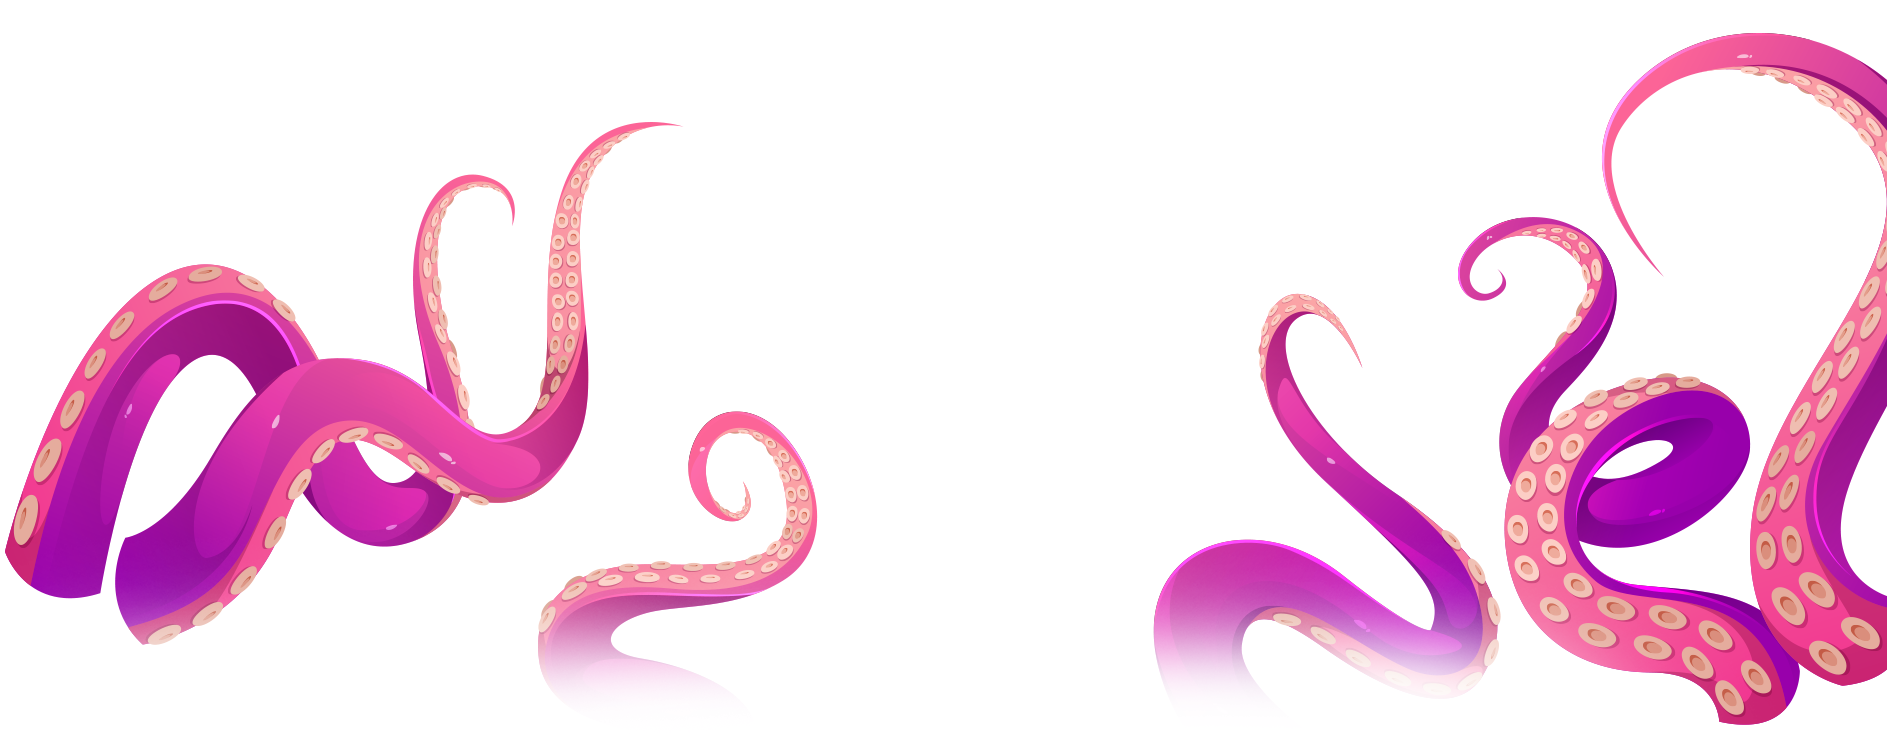
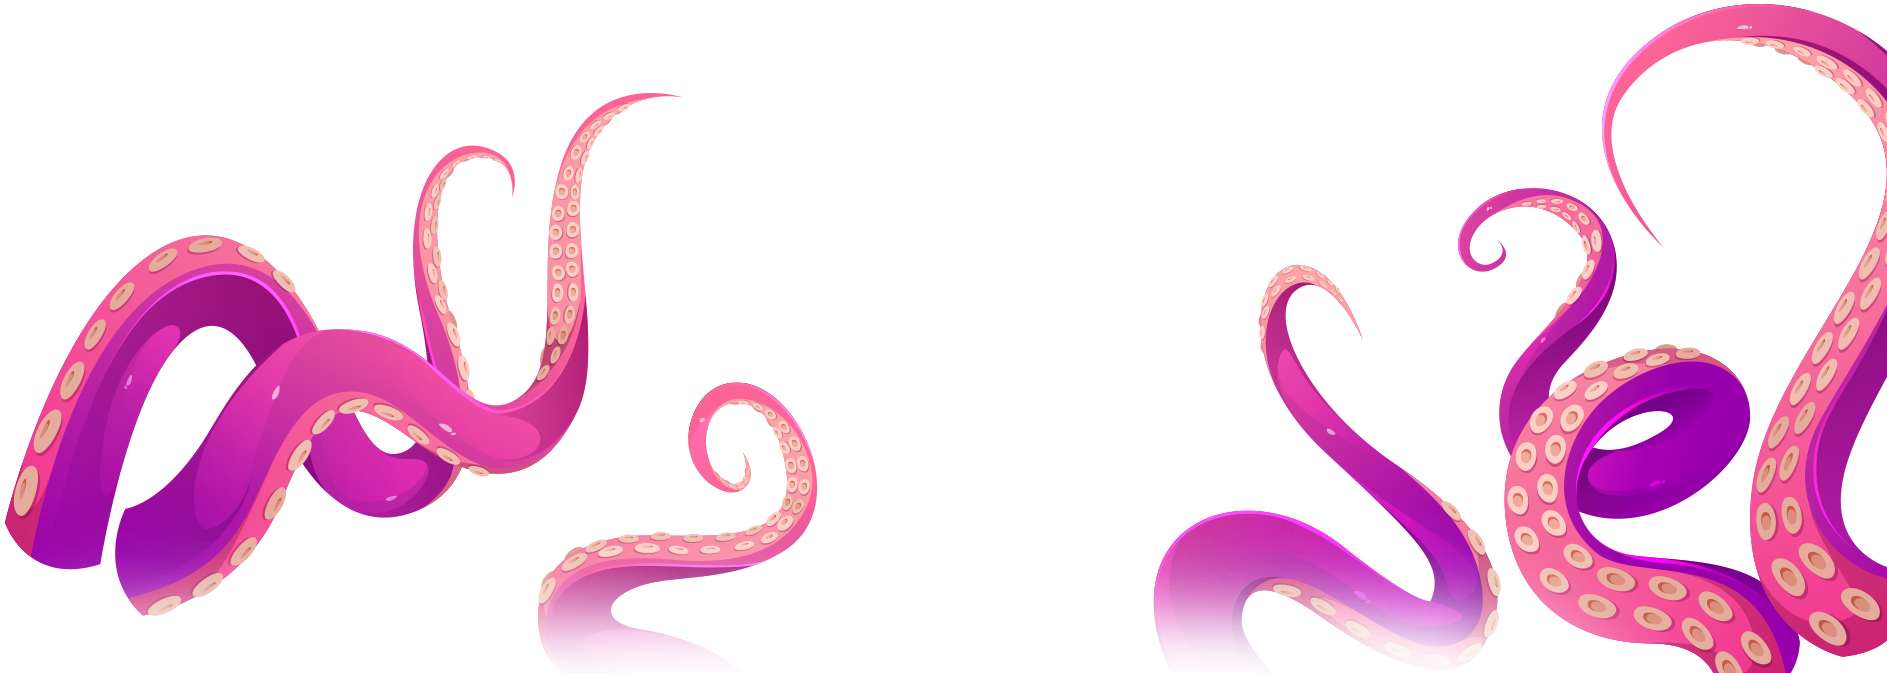
updated UI

diff --git a/index.html b/index.html
@@ -62,7 +62,7 @@
         </div>
         <div class="about_us">
             <div>
-                 <img src="./assets/images/About_Us.png" class="about_uS" alt="">
+                <img src="./assets/images/About_Us.png" class="about_uS" alt="">
             </div>
             <div class="p_abouttext">
                 <p>We are Ekaledio, a bunch of young</p>
@@ -294,55 +294,40 @@
                         </div>
                     </div>
                 </div>
-                <img src="/assets/images/land.png" alt="" class="land">
+                <img src="/assets/images/land.png" alt="land" class="land">
     </section>
-    atlantisbackground
     <section class="six">
         <div class="six_main">
-            <img src="./assets/images/filters.png" class="fillter" alt="">
-              <img src="./assets/images/phoneunderwater.png" alt="">
-
-
-              <img src="./assets/images/rockswater.png" alt="" class="rock_mountain">
-
-
-            <img src="./assets/images/tenticlesback.png" alt="" class="TENTICLES">
-            <img src="./assets/images/TENTICLES.png" alt="" class="TENTICLES">
-            <img src="./assets/images/coralright.png" alt="" class="coralright ">
-            <img src="./assets/images/bubbles.png" alt="" class="bubbleS ">
+            <img src="./assets/images/waves.png" class="waves" alt="waves" />
+            <img src="./assets/images/filters.png" class="fillter" alt="filter">
+            <img src="./assets/images/phoneunderwater.png" alt="phoneunderwater">
+            <img src="./assets/images/rockswater.png" alt="rockswater" class="rock_mountain">
+            <img src="./assets/images/tenticlesback.png" alt="tenticlesback" class="TENTICLES">
+            <img src="./assets/images/TENTICLES.png" alt="tenticles" class="TENTICLES">
+            <img src="./assets/images/coralright.png" alt="coralright" class="coralright ">
+            <img src="./assets/images/bubbles.png" alt="bubbles" class="bubbleS ">
         </div>
-        <div class="dark_section">
-    
-        </div>
+        <div class="dark_six_bottom"></div>
     </section>
     <section class="seven">
-        <div class="seven_main">
-               <img src="./assets/images/fish.png" alt="">
-               <img src="./assets/images/unwaterrockfish.png" class="unwaterrockfish" alt="">
-        </div>
-        <div class="dark_section2">
-    
-        </div>
-    </section >
-
-
+        <img class="lamp_fish" src="./assets/images/fish.png" alt="fish">
+        <img class="underwaterrock" src="./assets/images/unwaterrockfish.png" alt="rock">
+    </section>
     <section class="atlantic">
-          <div class="atlantic_div">
-              <div class="form1">
+        <div class="dark_atlantic_top"></div>
+        <div class="atlantic_div">
+            <div class="form1">
                 <img src="./assets/images/sendus .png" alt="">
                 <input type="text" class="mt" placeholder="Your name">
                 <input type="email" placeholder="Your email">
-              </div>
-
-              <div class="form2">
+            </div>
+            <div class="form2">
                 <img src="./assets/images/amail.png" alt="">
                 <input type="text" class="mt" placeholder="Subject">
                 <textarea name="" id="" placeholder="Your message"></textarea>
-
             </div>
-          </div>
-          <div class="dark_section3">
-    
+        </div>
+        <div class="dark_atlantic_bottom">
         </div>
     </section>
     <script src="https://unpkg.com/aos@2.3.1/dist/aos.js"></script>
@@ -369,6 +354,7 @@
     <script src="./js/birds.js"></script>
     <script src="./js/carousel.js"></script>
     <script src="./js/client.js"></script>
+    <script src="./js/lamp_fish.js"></script>
 </body>
 
 </html>

diff --git a/css/six.css b/css/six.css
@@ -1,63 +1,60 @@
-.six{
-    background: url(../assets/images/water.png);
-    min-height: 200vh;
-    background-size: cover;
-    margin-top: -89px;
-    position: relative;
+.six {
+	background: url(../assets/images/water.png);
+	min-height: 200vh;
+	background-size: cover;
+	margin-top: -89px;
+	position: relative;
 }
 
-.six_main{
-
-    display: flex;
-    align-items: center;
-    justify-content: center;
-    min-height: 200vh;
+.six_main {
+	display: flex;
+	align-items: center;
+	justify-content: center;
+	min-height: 200vh;
 }
 
-
-.dark_section{
-  
-    background-image: linear-gradient(transparent, black, transparent);
-    min-height: 83vh;
-    position: absolute;
-    width: 100%;
-    bottom: -19%;
-    z-index: 5;
-
+.waves {
+	position: absolute;
+	top: -3%;
+	width: 100%;
+	z-index: 10;
+}
+.dark_six_bottom {
+	background-image: linear-gradient(0deg, black 35%, transparent 90%);
+	min-height: 30vh;
+	position: absolute;
+	width: 100%;
+	bottom: 0;
+	z-index: 5;
 }
 
-
-.rock_mountain{
-    width: 100%;
-    position: absolute;
-    bottom: 0;
-    z-index: 3;
+.rock_mountain {
+	width: 100%;
+	position: absolute;
+	bottom: 0;
+	z-index: 3;
 }
 
-
-.TENTICLES{
-    width: 100%;
-    position: absolute;
-    bottom: 0;
-    z-index: 3;
+.TENTICLES {
+	width: 100%;
+	position: absolute;
+	bottom: 0;
+	z-index: 3;
 }
 
-
-.coralright{
-    width: 100%;
-    position: absolute;
-    bottom: 0;
-    z-index: 1;
+.coralright {
+	width: 100%;
+	position: absolute;
+	bottom: 0;
+	z-index: 1;
 }
 
-
-.bubbleS{
-  position: absolute;
-  bottom: 0;
+.bubbleS {
+	position: absolute;
+	bottom: 0;
 }
 
-
-.fillter{
-    position: absolute;
-    top: 17%;
+.fillter {
+	position: absolute;
+	top: 17%;
 }

diff --git a/css/seven.css b/css/seven.css
@@ -1,39 +1,39 @@
-.seven{
-      
-     background-color: black;
-     min-height: 50vh;
- position: relative;
+.seven {
+	background-color: black;
+	min-height: 100vh;
+	position: relative;
+	display: flex;
+	align-items: center;
+	overflow: hidden;
 }
 
-.seven_main{
-    display: flex;
-    align-items: center;
-   
-    min-height: 50vh;
-    position: relative;
-    overflow: hidden;
+.lamp_fish {
+	top: 30%;
+	width: 40%;
+	position: absolute;
 }
 
-.seven_main img{
-
-    position: absolute;
-     width: 61%;
+.underwaterrock {
+	right: 0;
+	bottom: 0;
+	position: absolute;
 }
 
-
-.unwaterrockfish{
-    position: absolute;
-    right: 0;
-    top: 0;
+.dark_atlantic_top,
+.dark_atlantic_bottom {
+	min-height: 30vh;
+	position: absolute;
+	width: 100%;
+	z-index: 5;
+	top: 0;
 }
 
-.dark_section2{
+.dark_atlantic_top {
+	background-image: linear-gradient(180deg, black 35%, transparent 95%);
+	top: 0;
+}
 
-    background-image: linear-gradient(transparent, black, transparent);
-    min-height: 48vh;
-    position: absolute;
-    width: 100%;
-    bottom: -52%;
-    z-index: 5;
-
+.dark_atlantic_bottom {
+	background-image: linear-gradient(0deg, black, transparent);
+	bottom: 0;
 }

diff --git a/js/lamp_fish.js b/js/lamp_fish.js
@@ -1,0 +1,36 @@
+const fish_tween = new TimelineLite();
+const fish_path = {
+	curviness: 1.25,
+	autoRotate: true,
+	values: [
+		{x: 0, y: 0},
+		{x: 100, y: 20},
+		{x: 200, y: 40},
+		{x: 300, y: 20},
+		{x: 500, y: 0},
+		{x: 650, y: 20},
+		{x: 700, y: 40},
+		{x: 900, y: 20},
+		{x: 1000, y: 0},
+		{x: 1200, y: 20},
+	],
+};
+
+fish_tween.add(
+	TweenLite.to(".lamp_fish", 1, {
+		rotation: 0,
+		bezier: fish_path,
+		ease: Power1.easeInOut,
+	})
+);
+
+var controller = new ScrollMagic.Controller();
+var ourScene = new ScrollMagic.Scene({
+	triggerElement: ".seven",
+	duration: "1500",
+	triggerHook: 0,
+})
+	.setPin(".seven")
+	.addIndicators()
+	.setTween(fish_tween)
+	.addTo(controller);

diff --git a/js/birds.js b/js/birds.js
@@ -53,10 +53,7 @@ bird2_tween.add(
 		rotation: 0,
 		bezier: bird2_path,
 		ease: Power1.easeInOut,
-	}),
-	{x: -300, y: 90},
-	{x: -900, y: 100},
-
+	})
 );
 
 var controller = new ScrollMagic.Controller();
